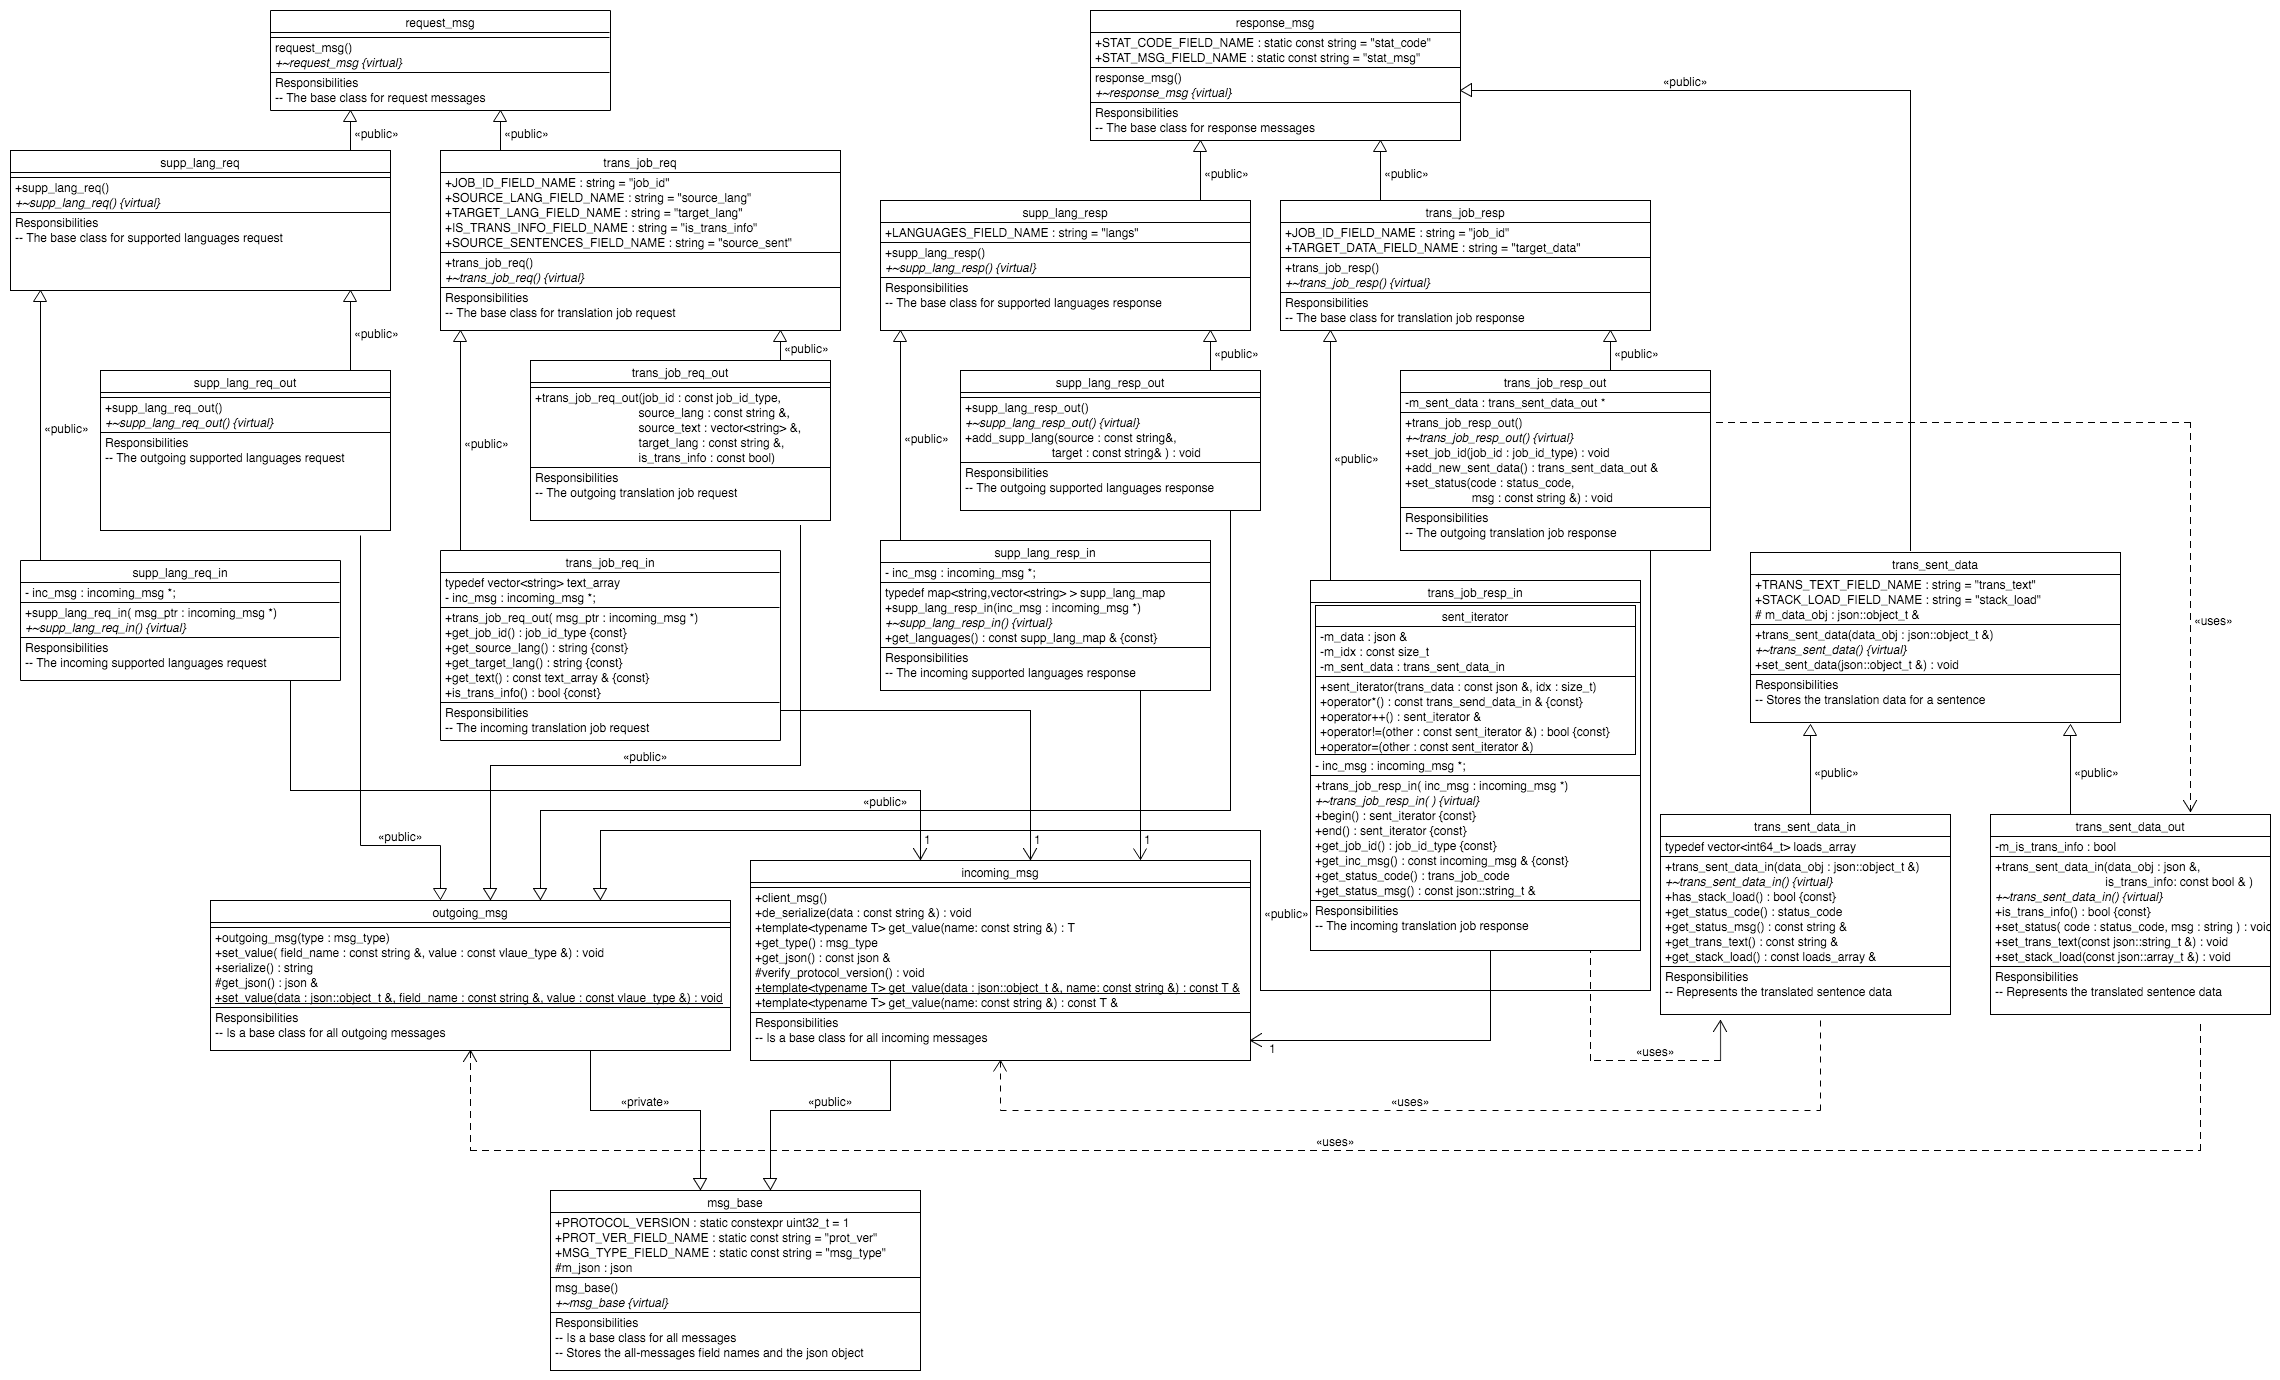
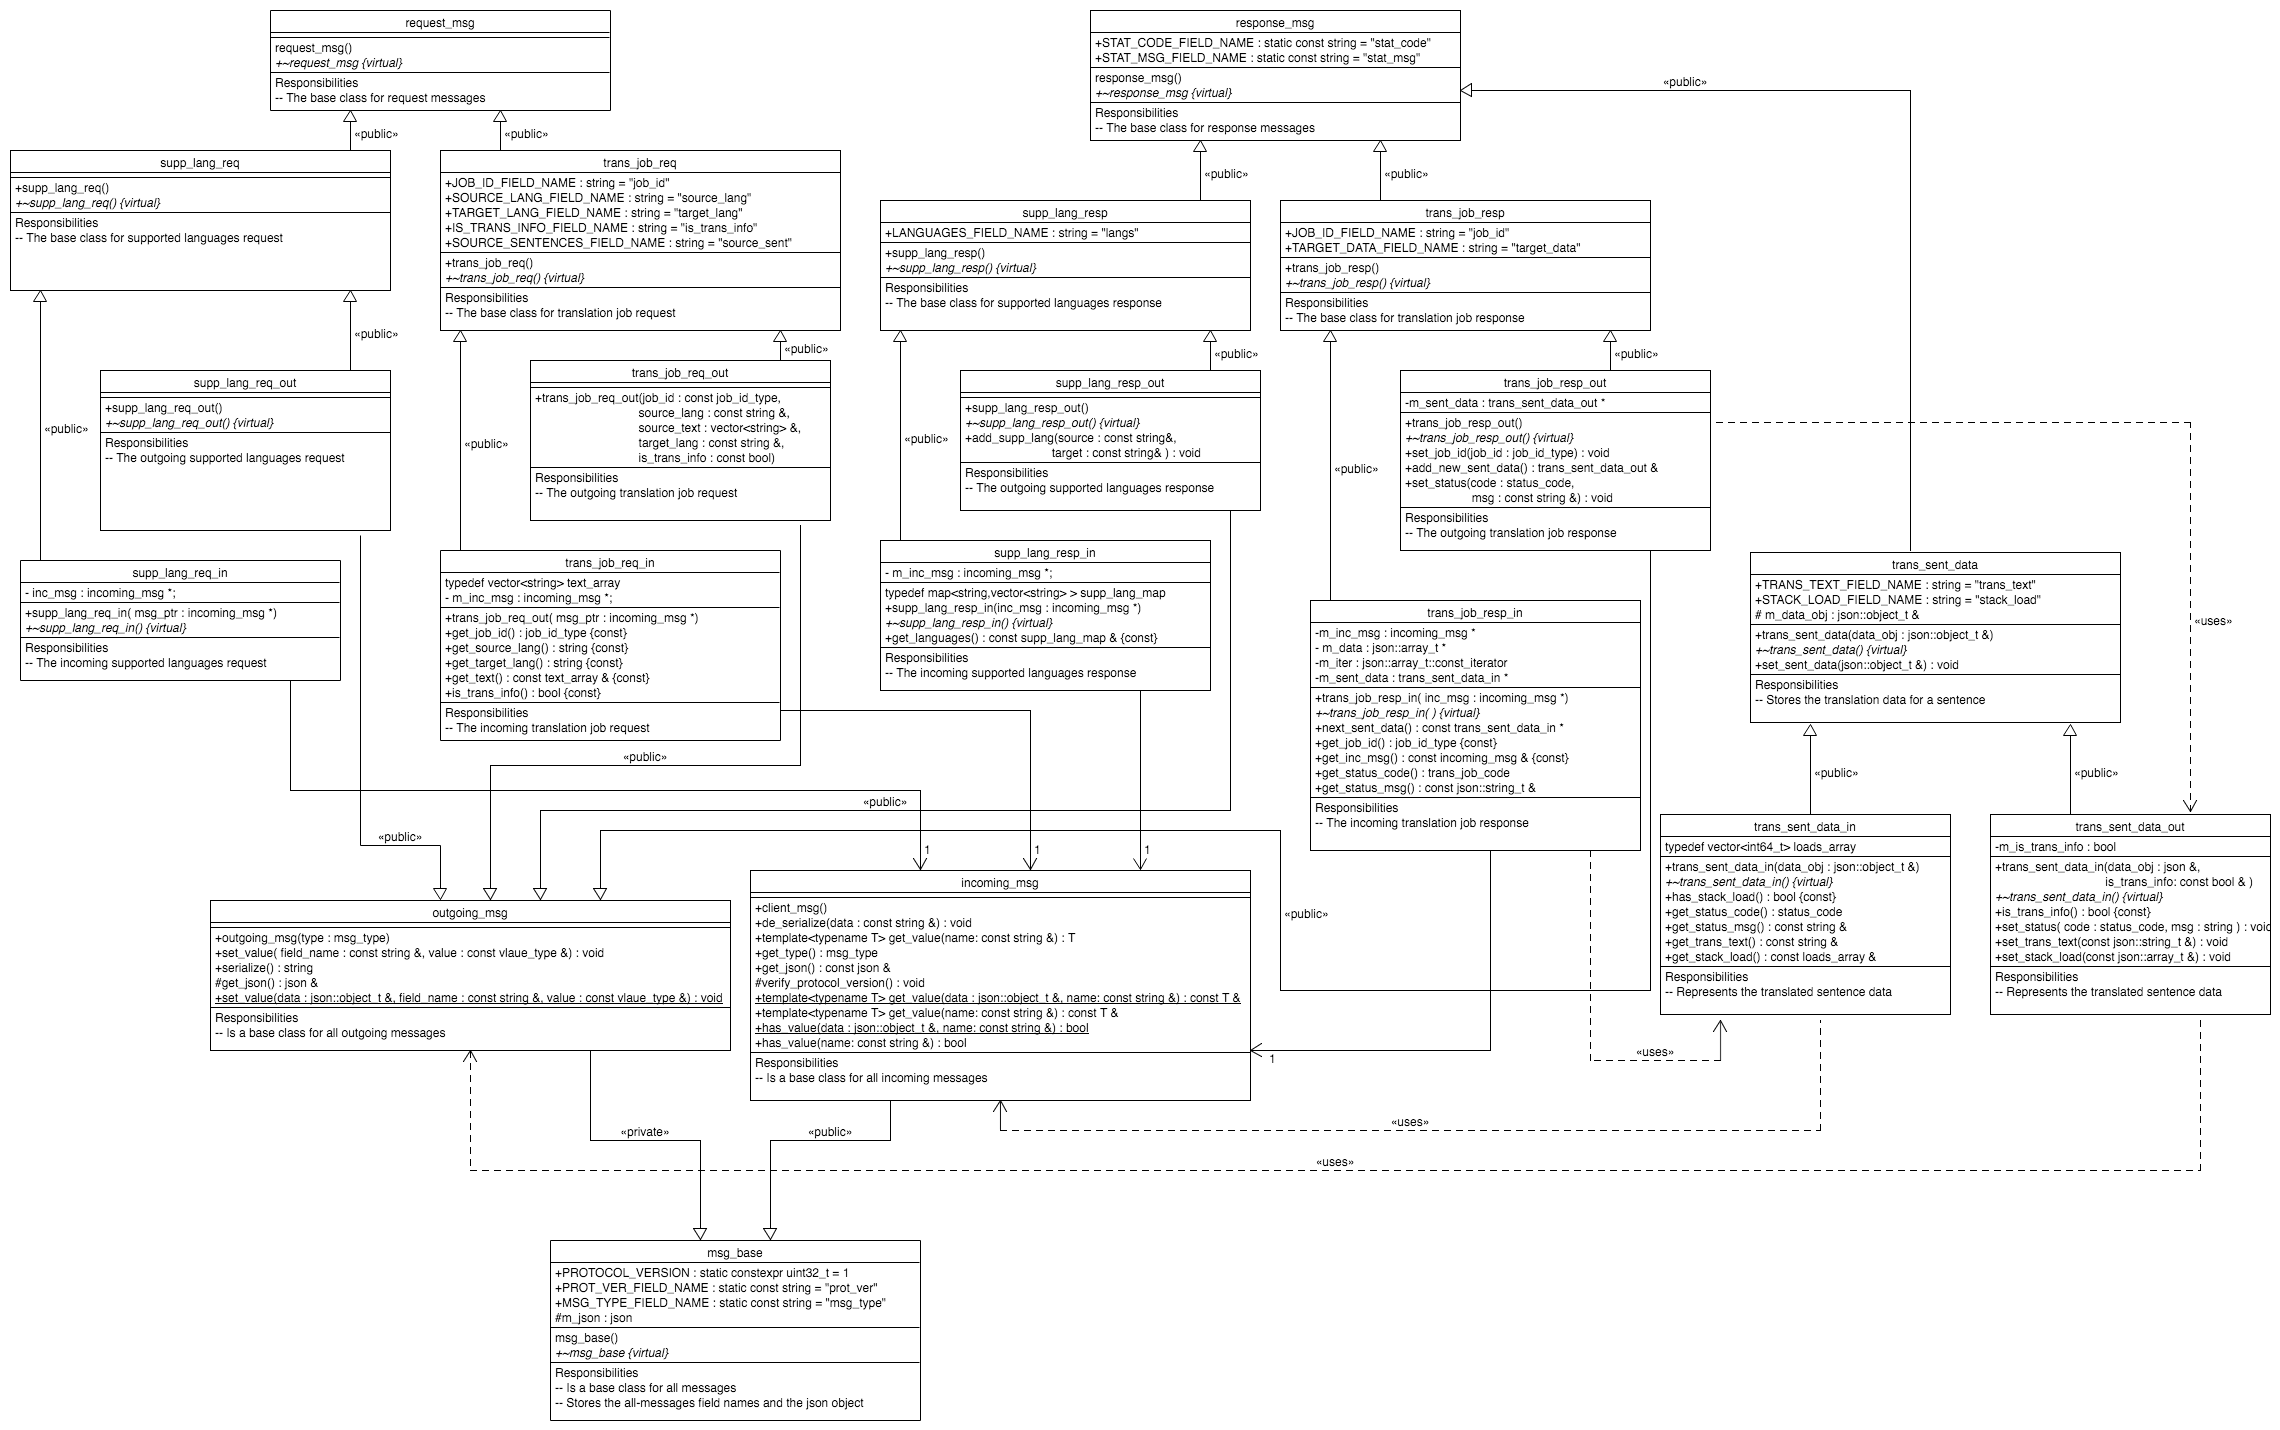
Working on the client-side messaging classes. Re-worked and finished the incoming translation job response.
Next:
0. Re-design the classes - create the new messaging
1. Extend the response messages with the status code and message fields
2. Convert the translation job response into using json.
   2.1 Each sentence is to be a json object as it has at least the status value and message fields.
   2.2 Make sure the translation info is also placed into the json format also for the sentence.

diff --git a/inc/client/messaging/trans_job_resp_in.hpp b/inc/client/messaging/trans_job_resp_in.hpp
@@ -28,6 +28,9 @@
 
 #include "common/messaging/trans_job_resp.hpp"
 #include "common/messaging/incoming_msg.hpp"
+#include "common/messaging/trans_job_id.hpp"
+
+#include "client/messaging/trans_sent_data_in.hpp"
 
 using namespace uva::smt::bpbd::common::messaging;
 
@@ -48,20 +51,97 @@ namespace uva {
                          * @param inc_msg the pointer to the incoming message, NOT NULL
                          */
                         trans_job_resp_in(incoming_msg * inc_msg)
-                        : supp_lang_resp(), m_inc_msg(inc_msg) {
+                        : supp_lang_resp(), m_inc_msg(inc_msg), m_data(NULL), m_iter(), m_sent_data(NULL) {
+                            //Nothing to be done here
                         }
 
                         /**
                          * The basic destructor
                          */
                         virtual ~trans_job_resp_in() {
+                            //Delete the incoming message, it must always be present
                             delete m_inc_msg;
+                            //Delete the sentence data if present
+                            if (m_sent_data != NULL) {
+                                delete m_sent_data;
+                            }
+                        }
+
+                        /**
+                         * Allows to iterate through the sentence data objects.
+                         * This is meant to be done one time only
+                         * @return a pointer to the sentence data object or NULL if we reached the end of the list
+                         */
+                        inline trans_sent_data_in * next_send_data() {
+                            if (m_data == NULL) {
+                                //If the data was not yet retrieved, do it
+                                m_data = &m_inc_msg->get_value(TARGET_DATA_FIELD_NAME);
+                                //Check if the vector size is above zero
+                                if (!m_data.empty()) {
+                                    //Initialize the iterator with the first value
+                                    m_iter = m_data.cbegin();
+                                    //Create the sentence data wrapper
+                                    m_sent_data = new m_sent_data(*m_iter);
+                                    //Move to the next element
+                                    ++m_iter;
+                                }
+                            } else {
+                                //The data has been retrieved, so this is not the first iteration
+                                if (m_iter == m_data.end()) {
+                                    //If we have no more elements or thre is not elements left
+                                    if (m_sent_data != NULL) {
+                                        //Delete the sentence data object if it is (still) present
+                                        delete m_sent_data;
+                                        m_sent_data = NULL;
+                                    }
+                                } else {
+                                    //If there is more elements, set them into the sentence data
+                                    m_sent_data->set_sent_data(*m_iter);
+                                    //Move to the next element
+                                    ++m_iter;
+                                }
+                            }
+
+                            return m_sent_data;
+                        }
+
+                        /**
+                         * Allows to get the job id
+                         * @return the job id
+                         */
+                        inline job_id_type get_job_id() {
+                            return m_inc_msg->get_value<job_id_type>(JOB_ID_FIELD_NAME);
+                        }
+
+                        /**
+                         * Allows to get the translation task result code
+                         * @return the translation task result code
+                         */
+                        inline status_code get_status_code() const {
+                            //Get the status code value
+                            int32_t code_value = m_inc_msg->get_value<int32_t>(STAT_CODE_FIELD_NAME);
+                            //Create the status code class instance
+                            return status_code(code_value);
+                        }
+
+                        /**
+                         * Allows to get the translation task status message
+                         * @return the translation task status message
+                         */
+                        inline const string & get_status_msg() const {
+                            return m_inc_msg->get_value(STAT_MSG_FIELD_NAME);
                         }
 
                     private:
                         //Stores the pointer to the incoming message storing
                         //the response data, this pointer must not be NULL
                         incoming_msg * m_inc_msg;
+                        //Stores the pointer to the translation data
+                        json::array_t * m_data;
+                        //Stores the iterator
+                        json::array_t::const_iterator m_iter;
+                        //Stores the pointer to the sentence data
+                        trans_sent_data_in * m_sent_data;
                     };
                 }
             }

diff --git a/inc/common/messaging/incoming_msg.hpp b/inc/common/messaging/incoming_msg.hpp
@@ -82,6 +82,20 @@ namespace uva {
                             //with all sorts of checks but this shall do it for now.
                             return static_cast<msg_type> (get_value<int32_t>(MSG_TYPE_FIELD_NAME));
                         }
+                        
+                        /**
+                         * Allows to check if the json object contains the field with the given name
+                         * @param object the object to be checked
+                         * @param field_name the field name to be checked
+                         * @return true if the field is contained, otherwise false
+                         */
+                        static inline bool has_value(const json::object_t & object, const string & field_name) {
+                            //Retrieve the value from the JSON object
+                            auto entry = object.find(field_name);
+
+                            //Return the result, true if the field was found
+                            return (entry != object.end());
+                        }
 
                         /**
                          * Allows to get the data from the JSON object and
@@ -104,7 +118,16 @@ namespace uva {
 
                             return *entry;
                         }
-
+                        
+                        /**
+                         * Allows to check if the json object contains the field with the given name
+                         * @param field_name the field name to be checked
+                         * @return true if the field is contained, otherwise false
+                         */
+                        inline bool has_value(const string & field_name) {
+                            return has_value(m_json, field_name);
+                        }
+                        
                         /**
                          * Allows to get the data from the JSON object and
                          * cast it to the desired result type.

diff --git a/inc/client/messaging/trans_sent_data_in.hpp b/inc/client/messaging/trans_sent_data_in.hpp
@@ -109,7 +109,7 @@ namespace uva {
                          * @return true if the stack loads are present, otherwise false
                          */
                         inline bool has_stack_load() {
-                            return (m_data_obj.find(STACK_LOAD_FIELD_NAME) != m_data_obj.end());
+                            return incoming_msg::has_value(m_data_obj, STACK_LOAD_FIELD_NAME);
                         }
                     };
 
